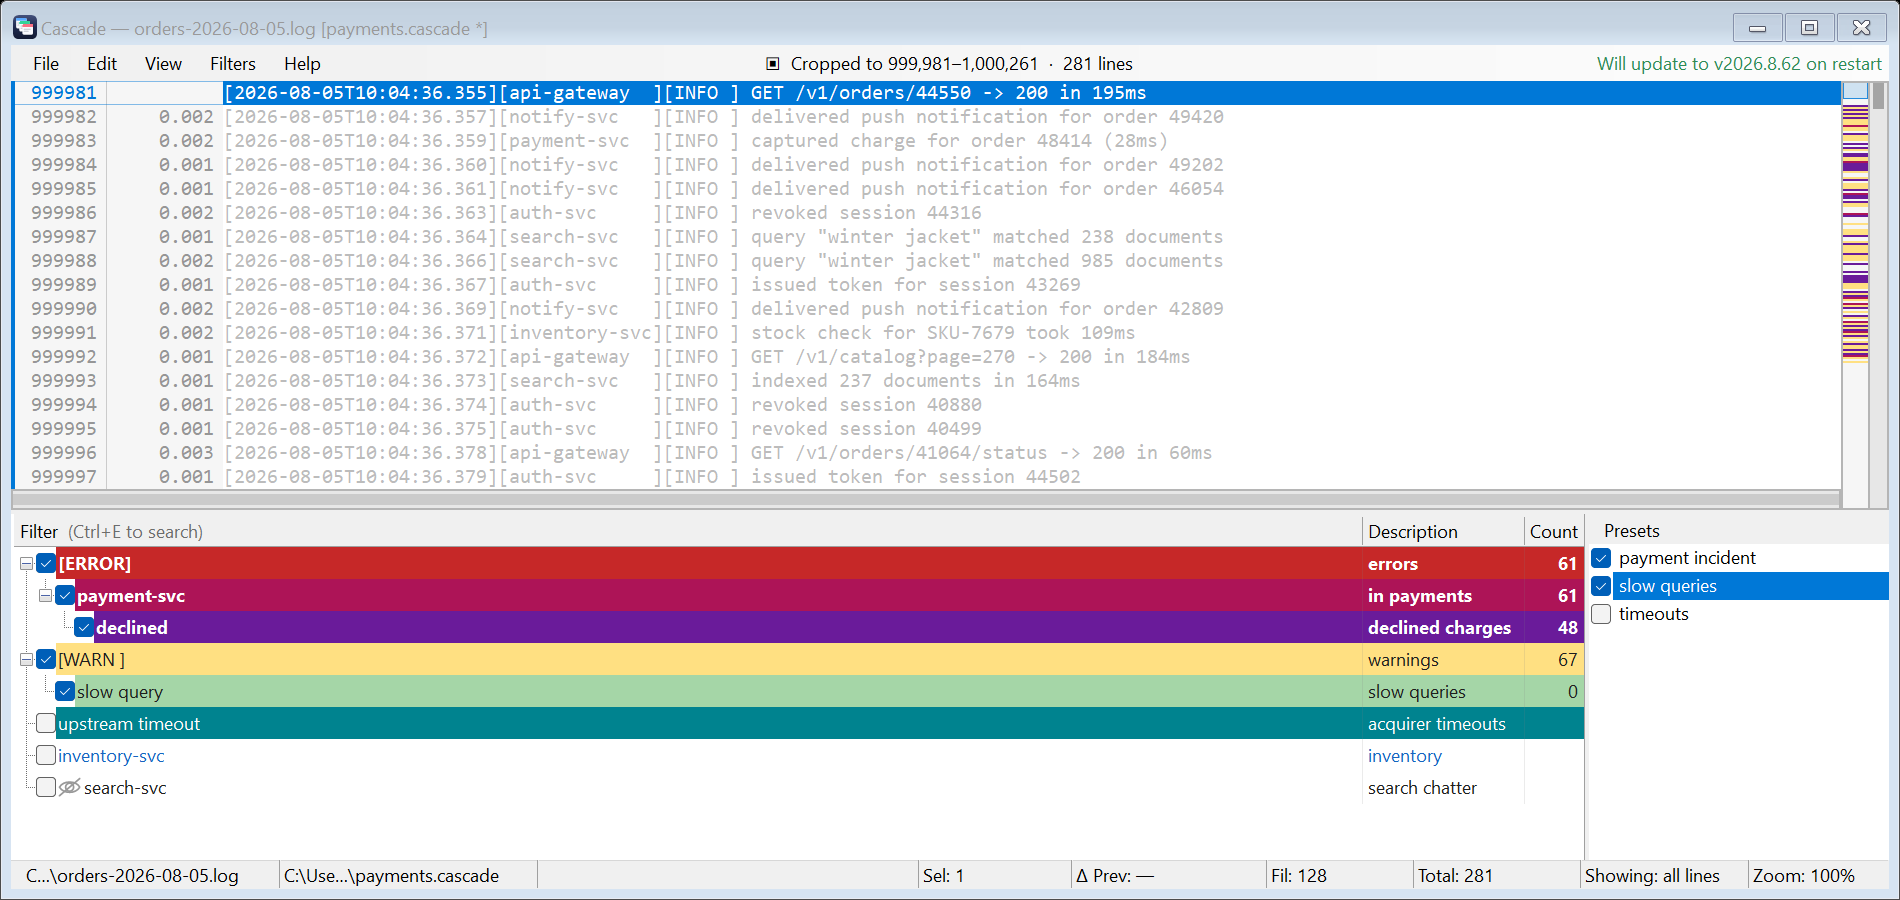
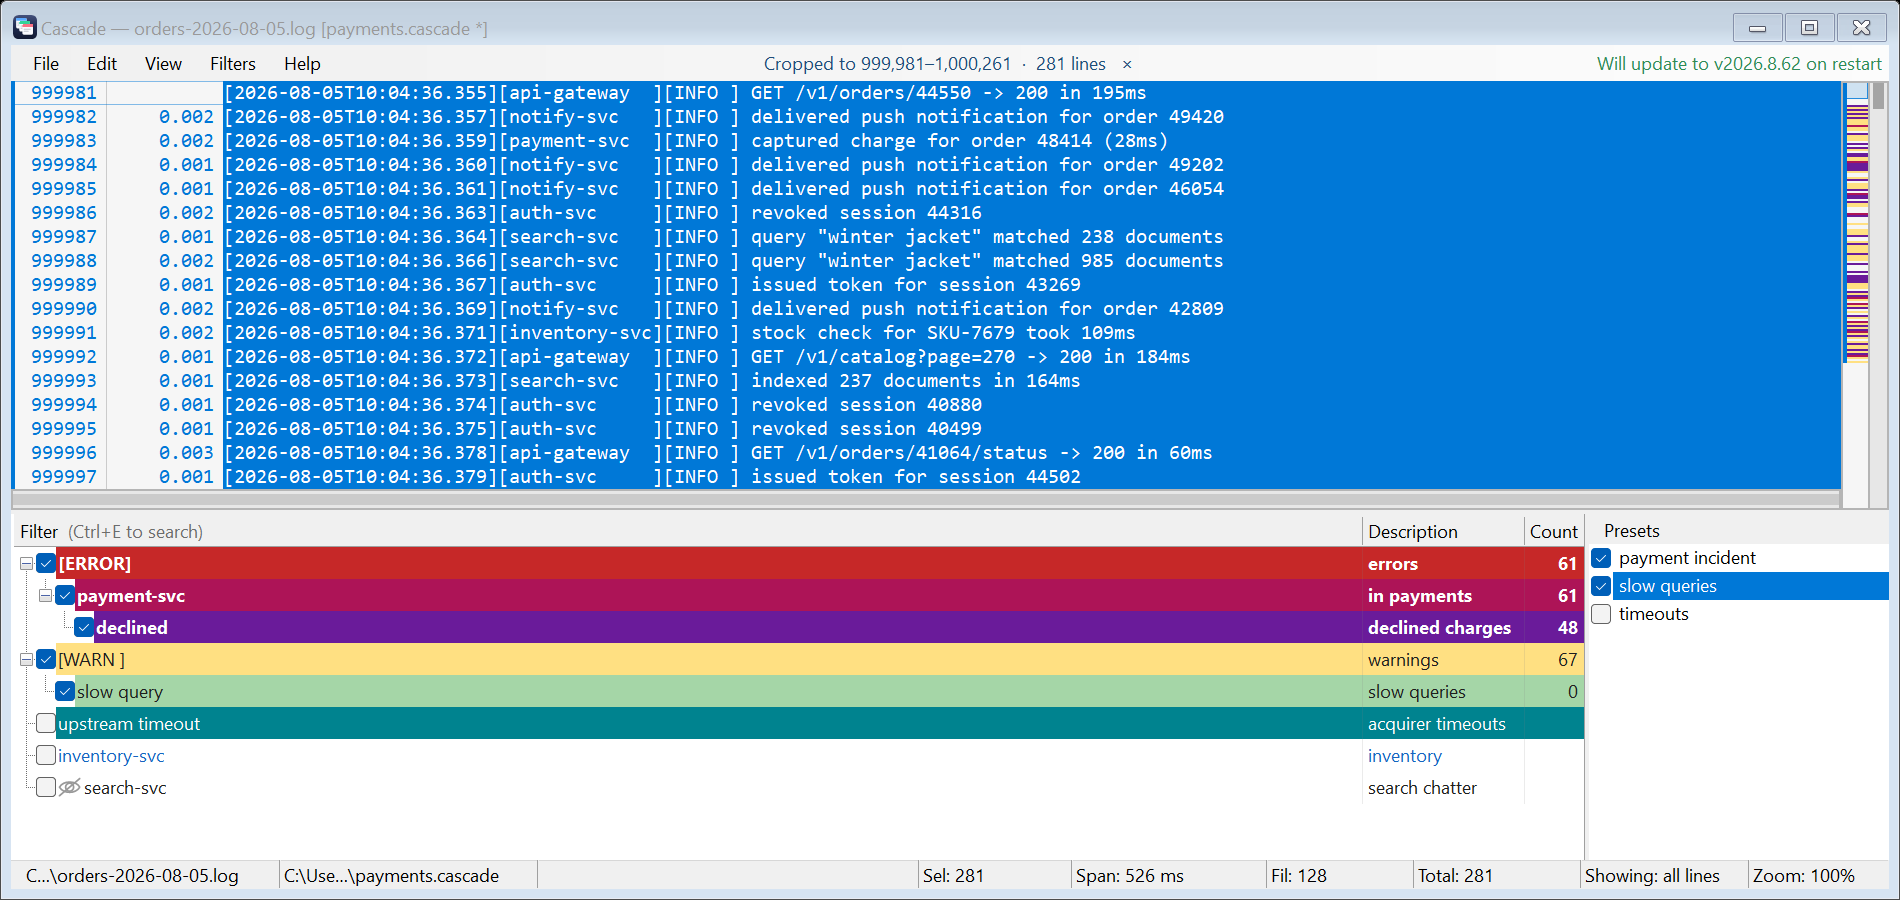
Return the view to the reader's own position, exactly
- Toggling what is shown now lands on the very line at the very height it
  started from, instead of near it. The viewport was re-derived from the view
  on each change, and a line the new set does not show gives way to its
  nearest neighbour - so the answer depended on which lines happened to be
  shown at that moment, and each round left the text a little further down.
- The position the reader put the view in is remembered instead, in file
  lines, and every change to the visible set is measured from that. It is
  forgotten the moment they scroll, click, or move the caret, so it only ever
  restores a position they chose.
- Retiring the streaming anchor is now separate from forgetting that
  position. The anchor steadies the text while a pass runs and is done when
  the pass ends; the reader's position outlives it.
- The crop chip is drawn as the link it is: a hand cursor, an underline under
  the pointer and a trailing X, so that it says it can be clicked without
  spending a sentence of the menu bar on saying so. The keystroke is on the
  tip, where it is looked for once. The square that led it is gone - it stood
  for nothing.
- Checks the case that was still creeping: a top line the filter hides with
  the caret nowhere near it, which has no caret to hold the view by. Also
  checks the caret keeps its height on screen, not merely its line.

diff --git a/src/Cascade.App/LineGridControl.cs b/src/Cascade.App/LineGridControl.cs
@@ -728,6 +728,16 @@ public sealed class LineGridControl : Control
     /// and pass the result to <see cref="SetViewAnchor"/> after it.</summary>
     public ViewAnchor CaptureViewAnchor()
     {
+        // The reader's own position, if they have not moved since it was taken. Re-deriving it from the view
+        // each time is what let it creep: the answer depends on which lines happen to be shown right now.
+        if (_restorePoint is { } held) return held;
+        var taken = TakeViewAnchor();
+        if (taken.IsValid) _restorePoint = taken;
+        return taken;
+    }
+
+    private ViewAnchor TakeViewAnchor()
+    {
         if (_doc is null) return ViewAnchor.None;
         long rows = _doc.RowCount;
         // Nothing on show has no position to hold, but the caret still belongs to a line - so a view emptied
@@ -757,7 +767,30 @@ public sealed class LineGridControl : Control
         _anchorOffset = Math.Clamp(anchor.Offset, 0, Math.Max(0, EffectiveVisibleRows - 1));
     }
 
-    public void ClearViewAnchor() { _anchorLine = -1; _anchorCaretLine = -1; }
+    public void ClearViewAnchor()
+    {
+        RetireViewAnchor();
+        _restorePoint = null;
+    }
+
+    /// <summary>Drops the streaming anchor once the pass it was steadying has finished, WITHOUT forgetting
+    /// where the reader put the view. The two are different things: the anchor stops the text drifting under
+    /// a running pass and has done its job when the pass ends, while the restore point outlives it and is the
+    /// reader's own position.</summary>
+    public void RetireViewAnchor()
+    {
+        _anchorLine = -1;
+        _anchorCaretLine = -1;
+    }
+
+    /// <summary>Where the reader last put the view, in file lines, kept until they move it again.
+    ///
+    /// <para>Every change to the visible set re-derives the viewport from a line, and a line that the new set
+    /// does not show has to give way to its nearest neighbour. Captured afresh each time, that neighbour then
+    /// becomes the anchor for the next change, and the next - so hiding and showing again lands a little
+    /// further down each round. Held instead, the reader's own position is what every change is measured
+    /// from, and toggling what is shown returns to the very line and the very height it started at.</para></summary>
+    private ViewAnchor? _restorePoint;
 
     /// <summary>While a filter pass is running the viewport must be identified by a <b>line</b>, never by a bare
     /// row index: rows shift continuously as lines are added and dropped before it. Every user navigation
@@ -3384,7 +3417,7 @@ public sealed class LineGridControl : Control
     private void NavigateMarker(int index, bool forward)
     {
         if (_doc is null) return;
-        _anchorLine = -1;
+        ClearViewAnchor();
         long first = _doc.FirstDisplayLine, last = _doc.LastDisplayLine;
         // Start the walk at the crop's edge rather than the file's, and refuse a mark beyond it: a marked
         // line outside the crop is not one of the lines this view has, so stepping to it would land the
@@ -3424,7 +3457,7 @@ public sealed class LineGridControl : Control
     {
         if (_doc is null) return;
         ClearCharSelection();
-        _anchorLine = -1;
+        ClearViewAnchor();
         row = Math.Clamp(row, 0, Math.Max(0, _doc.RowCount - 1));
         PlaceCaret(row);
         if (extend && _sel.Anchor >= 0) _sel.SetRange(_sel.Anchor, LineAt(row));
@@ -3662,7 +3695,7 @@ public sealed class LineGridControl : Control
     {
         if (_doc is null) return;
         ClearCharSelection();
-        _anchorLine = -1;
+        ClearViewAnchor();
         long row = _doc.RowForLine(line);
         if (row < 0) row = _doc.RowAtOrAfterLine(line);
         row = Math.Clamp(row, 0, Math.Max(0, _doc.RowCount - 1));
@@ -3680,7 +3713,7 @@ public sealed class LineGridControl : Control
     {
         if (_doc is null) return;
         ClearCharSelection();
-        _anchorLine = -1;
+        ClearViewAnchor();
         _sel.SetRange(first, last);
         long row = _doc.RowForLine(first);
         if (row < 0) row = _doc.RowAtOrAfterLine(first);
@@ -3808,7 +3841,7 @@ public sealed class LineGridControl : Control
         if (_doc is null) return;
         if (InvokeRequired) { BeginInvoke(() => SelectRowForAccessibility(row)); return; }
         row = Math.Clamp(row, 0, Math.Max(0, _doc.RowCount - 1));
-        _anchorLine = -1;
+        ClearViewAnchor();
         PlaceCaret(row);
         _sel.SetSingle(LineAt(row));
         EnsureVisible(row);

diff --git a/src/Cascade.App/MainForm.cs b/src/Cascade.App/MainForm.cs
@@ -52,12 +52,25 @@ public sealed class MainForm : Form
     // saying the file is cropped costs no room at all: the alternative was a bar of its own above the log,
     // and a permanent strip is a high price for a state that is usually off. Clickable, unlike the update
     // notice beside it - it is the quickest way back to the whole file.
+    // Hidden unless a crop is in force. Centred in the menu bar, which is otherwise empty in the middle, so
+    // saying the file is cropped costs no room at all: the alternative was a bar of its own above the log,
+    // and a permanent strip is a high price for a state that is usually off.
+    //
+    // Drawn as a link, because it is one: it takes the pointer's hand cursor and underlines under it, which
+    // is what says "this can be clicked" without spending a sentence of the menu bar on saying so. The
+    // trailing X says what clicking it does. The keystroke lives on the tip, where it is looked for once.
     private readonly ToolStripLabel _cropLabel = new()
     {
         Visible = false,
         Name = "menu.crop",
         Overflow = ToolStripItemOverflow.Never,
-        AutoSize = true
+        AutoSize = true,
+        IsLink = true,
+        LinkBehavior = LinkBehavior.HoverUnderline,
+        // A quiet slate rather than the default link blue, which shouts across a menu bar and reads as a web
+        // page. Dark enough to sit against the chrome, coloured enough to say it is not just a label.
+        LinkColor = Color.FromArgb(0x1F, 0x4E, 0x79),
+        ActiveLinkColor = Color.FromArgb(0x0F, 0x2E, 0x4C),
     };
     private readonly ToolStripProgressBar _progress = new() { Style = ProgressBarStyle.Continuous, Visible = false, AutoSize = false, Width = 120 };
     private readonly System.Windows.Forms.Timer _refreshTimer = new() { Interval = 33 };
@@ -411,7 +424,7 @@ public sealed class MainForm : Form
                 ShowFindMessage($"Hang recorded: {dump}", Path.Combine(HangWatchdog.Folder, dump));
             if (_pendingRefresh) { _pendingRefresh = false; _grid.RefreshView(); _grid.InvalidateMatchMap(); _filterTree.RefreshCounts(); }
             else if (_doc.IsBusy) _filterTree.RefreshCounts();
-            if (_anchorActive && !_doc.IsBusy) { _grid.RefreshView(); _grid.ClearViewAnchor(); _anchorActive = false; }
+            if (_anchorActive && !_doc.IsBusy) { _grid.RefreshView(); _grid.RetireViewAnchor(); _anchorActive = false; }
             _doc.DropRememberedViews();
             UpdateStatusIfChanged();
             FlushConfig();
@@ -2953,8 +2966,8 @@ public sealed class MainForm : Form
         }
 
         long rows = _doc.DisplayLineCount;
-        string text = $"\u25A3  Cropped to {_doc.FirstDisplayLine + 1:N0}\u2013{_doc.LastDisplayLine + 1:N0}"
-                    + $"  \u00B7  {rows:N0} {(rows == 1 ? "line" : "lines")}";
+        string text = $"Cropped to {_doc.FirstDisplayLine + 1:N0}\u2013{_doc.LastDisplayLine + 1:N0}"
+                    + $"  \u00B7  {rows:N0} {(rows == 1 ? "line" : "lines")}   \u00D7";
         bool changed = _cropLabel.Text != text;
         if (changed) _cropLabel.Text = text;
         if (!_cropLabel.Visible)
@@ -2962,8 +2975,8 @@ public sealed class MainForm : Form
             _cropLabel.Visible = true;
             changed = true;
         }
-        _cropLabel.ToolTipText = $"Showing {rows:N0} of {_doc.CompletedLineCount:N0} lines. "
-                               + "Click, or press Ctrl+], to see the whole file again.";
+        _cropLabel.ToolTipText = $"Showing {rows:N0} of {_doc.CompletedLineCount:N0} lines.\n"
+                               + "Click to see the whole file again \u00B7 Ctrl+] toggles the crop";
         if (changed) CentreCropLabel();
     }
 

diff --git a/src/Cascade.App/SelfTest.cs b/src/Cascade.App/SelfTest.cs
@@ -8178,6 +8178,25 @@ internal static class SelfTest
                 Pump();
             }
             ok &= Check($"and it does not creep over repeated toggles (line {TopLine():N0})", TopLine() == top);
+            ok &= Check($"with the caret still at the same height ({grid.CaretRowForTesting - grid.FirstVisibleRow} rows down, was 3)",
+                        grid.CaretRowForTesting - grid.FirstVisibleRow == 3);
+
+            // The harder case: the top line is itself one the filter hides, and the caret is nowhere near it.
+            // There is then no caret to hold the view by, and the top line has to give way to its neighbour -
+            // so this is where a re-derived anchor creeps and a remembered one does not.
+            grid.SelectLinesForTesting(5, 5);
+            Pump();
+            grid.ScrollToRow(1_002);              // 1,002 does not match KEEP, and the caret is far above it
+            Pump();
+            long hiddenTopLine = TopLine();
+            ok &= Check($"parked on a line the filter hides ({hiddenTopLine:N0})", hiddenTopLine == 1_002);
+            for (int i = 0; i < 3; i++)
+            {
+                ShowOnlyMatches(true);
+                ShowOnlyMatches(false);
+            }
+            ok &= Check($"toggling returns to that very line, not its neighbour (line {TopLine():N0})",
+                        TopLine() == hiddenTopLine);
 
             // A crop taken with the caret on screen, which is the ordinary way one is taken.
             grid.ScrollToRow(1_100);
